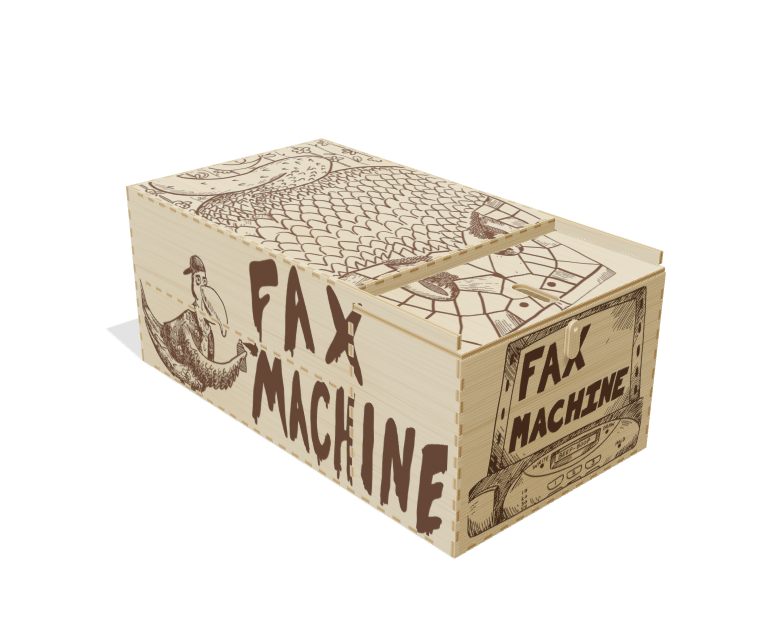
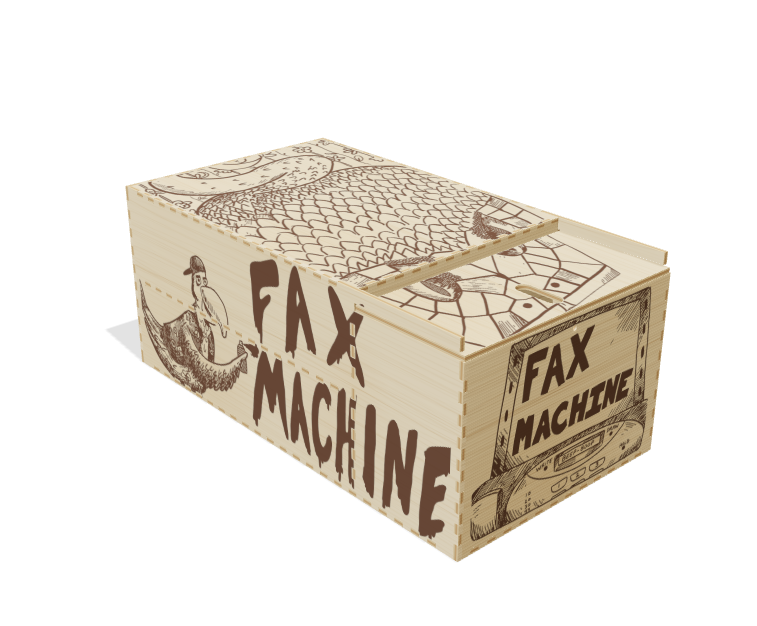
site: remove turn-button lock (lid held by friction); per-part explode

diff --git a/site/js/guide.js b/site/js/guide.js
@@ -1,6 +1,17 @@
 // Build-guide content that does not need three.js: step wording, extra steps,
 // how-it-works cards, hardware icons and small hand-drawn diagrams.
 
+// Parts the design has dropped (the turn-button lock). parts.json may still list
+// them until the geometry branch merges; leave them, and steps that only add them, out.
+export const REMOVED = /button/i;
+export function withoutRemoved(data) {
+  const gone = new Set(data.parts.filter(p => REMOVED.test(p.id + ' ' + (p.name || ''))).map(p => p.id));
+  if (!gone.size) return data;
+  const parts = data.parts.filter(p => !gone.has(p.id));
+  const steps = (data.steps || []).map(s => ({ ...s, parts: (s.parts || []).filter(id => !gone.has(id)) }))
+    .filter(s => !((data.steps.find(x => x.id === s.id) || {}).parts || []).length || s.parts.length);
+  return { ...data, parts, steps };
+}
 export const stepNumber = (s, i) => s.number ?? s.n ?? s.step ?? s.index ?? (i + 1);
 export const stepParts = s => s.parts || s.part_ids || s.added || [];
 export const cleanName = n => String(n || '').replace(/\s*\((lower|upper)( drawer)?\)/i, '');
@@ -18,7 +29,6 @@ export const STEP_TEXT = {
   box_left: { title: 'Left wall', note: 'Engraved face out, lid slot mouth to the front. Rear and left walls are one glue session.', tools: ['wood glue', 'mallet'] },
   box_front: { title: 'Front wall', note: 'Engraved face out, with the fax screen at the top. Front wall and bottom are the last glue session.', tools: ['wood glue', 'mallet'] },
   box_bottom: { title: 'Bottom panel', note: 'Its plain edge sits against the rear wall.', tools: ['wood glue', 'mallet'] },
-  box_button: { title: 'Turn button', note: 'Stack it as bolt, washer, button, wall, washer, nyloc nut, and tighten until the button turns with a firm push. Turned up, it blocks the lid; turned down, the lid slides out.', hardware: ['M3 × 14 button-head bolt', '2 × M3 washer', 'M3 nyloc nut'], tools: ['2 mm hex key', '5.5 mm wrench'], diagram: 'button' },
   box_lid: { title: 'Sliding lid', note: 'Grip slot toward the front, engraved side up. Slide it over the front wall into both slots until it stops at the divider. Never glue the lid or its slots.' },
   drawers_in: { title: 'Drawers in', note: 'COLORS goes in the lower opening, Lines in the upper one. Nothing stops a drawer from coming all the way out, so support it when you pull it far.' },
 };
@@ -96,15 +106,14 @@ export function buildSteps(data) {
 export const HOW_CARDS = [
   { id: 'paper', title: 'Paper slot', text: 'The front compartment holds a stack of quarter-letter sheets (4.25 × 5.5 in) standing on their long edge. Slide the lid back to take a page.', alt: 'Cutaway of the front compartment holding a stack of paper on edge' },
   { id: 'drawers', title: 'Two drawers with magnet catches', text: 'COLORS holds colored pencils and Lines holds pens. Each drawer pulls out the back. A pair of small magnets, one in the drawer and one in the divider, pulls it shut and keeps it closed when you carry the box.', alt: 'The upper drawer pulled out of the back of the box, with its magnet catch' },
-  { id: 'lid', title: 'Sliding lid and turn button', text: 'The lid rides in two slots cut into the side walls. A small wooden turn button bolted to the front wall locks it: turned up, the lid cannot slide out; turned down, it opens.', alt: 'The sliding lid pulled forward out of its slots, with the turn button on the front wall' },
+  { id: 'lid', title: 'Sliding lid', text: 'The lid rides in two slots cut into the side walls and slides out the front. It has no lock: friction in the slots holds it, so carry the box level and lift it from below, never by the lid or the top front edges.', alt: 'The sliding lid pulled forward out of its slots' },
   { id: 'joints', title: 'Finger joints', text: 'Every corner is a row of interlocking fingers cut to the exact plywood thickness. They line the box up square on their own, and a little wood glue makes them permanent.', alt: 'A corner of the box pulled apart to show the interlocking finger joints' },
 ];
 
-export const TOOLS = ['Calipers (to measure the plywood)', 'Wood glue (Titebond III)', 'CA glue for the magnets', 'Painter\'s tape or clamps', 'Small mallet or a block of wood', 'Tape measure', '2 mm hex key', '5.5 mm wrench or pliers', '220 grit sandpaper', 'Paraffin or beeswax', 'Paper cutter or scissors'];
+export const TOOLS = ['Calipers (to measure the plywood)', 'Wood glue (Titebond III)', 'CA glue for the magnets', 'Painter\'s tape or clamps', 'Small mallet or a block of wood', 'Tape measure', '220 grit sandpaper', 'Paraffin or beeswax', 'Paper cutter or scissors'];
 
 export const HARDWARE_FALLBACK = [
-  { name: 'Disc magnet, 6 × 2 mm', qty: 4, spares: 2 }, { name: 'M3 × 14 button-head bolt', qty: 1 },
-  { name: 'M3 nyloc nut', qty: 1 }, { name: 'M3 washer, 7 mm OD', qty: 2 }];
+  { name: 'Disc magnet, 6 × 2 mm', qty: 4, spares: 2 }];
 
 export const HW_ICONS = {
   magnet: '<svg viewBox="0 0 54 54" aria-hidden="true"><ellipse cx="27" cy="33" rx="17" ry="7" fill="#9aa0a8" stroke="#1d1b19" stroke-width="2.4"/><path d="M10 25v8M44 25v8" stroke="#1d1b19" stroke-width="2.4"/><ellipse cx="27" cy="25" rx="17" ry="7" fill="#d1d5da" stroke="#1d1b19" stroke-width="2.4"/></svg>',
@@ -126,18 +135,6 @@ export const SVG_PAPER = `<svg viewBox="0 0 900 640" xmlns="http://www.w3.org/20
 <path d="M660 175h165" /><circle cx="800" cy="145" r="15"/>
 ${K(610, 400, 40, '4 quarters,')}${K(610, 448, 40, '4.25 × 5.5 in')}</g></svg>`;
 
-// Turn button, locked (up) and open (down), seen from the front.
-function buttonPanel(x, up, label) {
-  const px = x + 150, py = 300;
-  const paddle = up ? `<rect x="${px - 22}" y="${py - 150}" width="44" height="172" rx="22" fill="#f2d9a8"/>` : `<rect x="${px - 22}" y="${py - 22}" width="44" height="172" rx="22" fill="#f2d9a8"/>`;
-  return `<rect x="${x}" y="150" width="300" height="300" fill="#fbf7ef"/>
-  <rect x="${x - 20}" y="${up ? 120 : 120}" width="340" height="26" fill="${up ? '#f2d9a8' : '#efe9dc'}" ${up ? '' : 'stroke-dasharray="10 8"'}/>
-  ${paddle}<circle cx="${px}" cy="${py}" r="9" fill="#fff"/>
-  ${up ? `<path d="M${px - 70} 104l40 0" stroke="#d8423a" stroke-width="6"/><path d="M${px - 90} 95l-18 20M${px - 108} 95l18 20" stroke="#d8423a" stroke-width="6"/>` : `<path d="M${x + 40} 104h-70m14-14l-14 14 14 14" stroke="#d8423a" stroke-width="6"/>`}
-  ${K(x + 60, 520, 44, label)}`;
-}
-export const SVG_BUTTON = `<svg viewBox="0 0 900 640" xmlns="http://www.w3.org/2000/svg" role="img" aria-label="Turn button up locks the lid; turned down the lid slides out"><g fill="none" stroke="#1d1b19" stroke-width="5" stroke-linecap="round" stroke-linejoin="round" style="filter:url(#wobble)">
-${buttonPanel(70, true, 'up: locked')}${buttonPanel(530, false, 'down: open')}</g></svg>`;
 
 // Laser starting points. Filled from published sources; see the citations rendered with the table.
 export { LASER } from './laser.js';

diff --git a/site/js/render3d.js b/site/js/render3d.js
@@ -31,7 +31,7 @@ function initHero(ctx, data) {
     onSelect(p, g) {
       if (!p) { card.hidden = true; return; }
       card.hidden = false; $('#pc-letter').textContent = p.letter || '?'; $('#pc-name').textContent = p.name;
-      $('#pc-hint').textContent = isDrawer(g) ? 'Tap again to slide the drawer' : (g === 'lid' || /button/i.test(p.id)) ? 'Tap again to slide the lid' : (qty[p.letter] > 1 ? `Part ${p.letter} · ${qty[p.letter]} in the kit` : `Part ${p.letter}`);
+      $('#pc-hint').textContent = isDrawer(g) ? 'Tap again to slide the drawer' : g === 'lid' ? 'Tap again to slide the lid (it is held by friction, with no lock)' : (qty[p.letter] > 1 ? `Part ${p.letter} · ${qty[p.letter]} in the kit` : `Part ${p.letter}`);
     },
   });
   const l = $('#hero-loading'); l && l.remove();
@@ -40,7 +40,7 @@ function initHero(ctx, data) {
   $('#explode').addEventListener('input', e => { model.target.explode = +e.target.value; viewer.kick(); refit(); });
   for (const b of document.querySelectorAll('.controls .chip')) b.addEventListener('click', () => {
     const a = b.dataset.act;
-    if (a === 'home') { model.target.explode = 0; $('#explode').value = 0; model.target.drawer_lower = model.target.drawer_upper = model.target.lid = model.target.button = 0; viewer.select(null); viewer.setView(viewer.home); }
+    if (a === 'home') { model.target.explode = 0; $('#explode').value = 0; model.target.drawer_lower = model.target.drawer_upper = model.target.lid = 0; viewer.select(null); viewer.setView(viewer.home); }
     else { if (a === 'lid') model.toggleLid(); else model.toggleDrawer(a); refit(); }
     syncChips(); viewer.kick();
   });
@@ -66,7 +66,7 @@ function initEngraving(ctx, data) {
     const face = man.faces[fid]; const p = data.parts.find(q => q.id === face.part_id); if (!p) return;
     const g = p.group; const fr = artFrame(p);
     const side = isDrawer(g) && Math.abs(fr.n.y) > 0.9;   // drawer sides only show when the drawer is out
-    Object.assign(model.target, { drawer_lower: side && g === 'drawer_lower' ? 1.35 : 0, drawer_upper: side && g === 'drawer_upper' ? 1.35 : 0, lid: 0, button: 0, explode: 0 });
+    Object.assign(model.target, { drawer_lower: side && g === 'drawer_lower' ? 1.35 : 0, drawer_upper: side && g === 'drawer_upper' ? 1.35 : 0, lid: 0, explode: 0 });
     const box = partBox(p).translate(model.groupOffset(g));
     const dir = Math.abs(fr.n.z) > 0.9 ? new THREE.Vector3(-0.45, -0.3, 1.5) : fr.n.clone().add(new THREE.Vector3(0, 0, 0.32)).add(fr.R.clone().multiplyScalar(-0.22));
     viewer.fitTo(box, { dir: dir.toArray(), margin: 1.05 });
@@ -116,17 +116,16 @@ function howPictures(data, R) {
     for (const m of (data.hardware && data.hardware.magnets) || []) R.addMagnet(s, m, null, m.group === 'drawer_upper' ? [120, 0, 0] : [0, 0, 0]);
     out.drawers = R.render(s, b, { dir: [0.95, -1, 0.7] }, 800, 600);
   }
-  if (lid && front) { // lid + button (turned down)
+  if (lid && front) { // lid pulled out
     const s = R._scene(), b = new THREE.Box3();
     for (const p of data.parts) {
       if (isDrawer(p.group)) continue;
       if (p === lid) R.addPart(s, p, 'hi', [-34, 0, 0], b);
-      else if (p === btn) R.addPart(s, btnDownOf(btn), 'hi', [0, 0, 0], b);
       else R.addPart(s, p, 'plain', [0, 0, 0], p === front || p === left ? b : null);
     }
     const lb = partBox(lid).translate(new THREE.Vector3(-34, 0, 0));
     R.addArrow(s, new THREE.Vector3(lb.min.x + 8, (lb.min.y + lb.max.y) / 2, lb.max.z + 16), [-1, 0, 0], 50, b);
-    out.lid = R.render(s, b, { dir: [-1, 0.5, 0.3] }, 800, 600);
+    out.lid = R.render(s, b, { dir: [-1, 0.5, 0.45] }, 800, 600);
   }
   if (front && left && bottom) { // exploded corner
     const s = R._scene(); const e = 14;

diff --git a/site/js/box3d.js b/site/js/box3d.js
@@ -221,19 +221,24 @@ export class BoxModel {
     parent.add(pivot);
     this.units[p.id] = { pivot, mesh, part: p, group: grp, explodeDir: this._explodeDir(p, grp) };
   }
+  // Exploded position: every part moves away from the middle of its body (box or
+  // drawer) along its own face normal, by an amount that grows with its distance
+  // from the middle, so neighbors that share an insert direction still separate.
   _explodeDir(p, grp) {
     const c = partCenter(p);
-    if (p.insert_direction) {
-      const d = new THREE.Vector3(...p.insert_direction).normalize().negate();
-      return d.multiplyScalar(isDrawer(grp) ? 28 : 85);
-    }
-    // fallback: dominant axis away from the body centre
     let ref = this.center.clone();
     if (isDrawer(grp)) { ref = new THREE.Vector3(); let n = 0; for (const q of this.parts) if (partGroup(q) === grp) { ref.add(partCenter(q)); n++; } ref.divideScalar(n || 1); }
-    const d = c.clone().sub(ref); const ax = ['x', 'y', 'z'].reduce((a, b) => Math.abs(d[b]) > Math.abs(d[a]) ? b : a, 'x');
-    const v = new THREE.Vector3(); v[ax] = Math.sign(d[ax]) || 1;
-    if (/top/i.test(p.id) && !isDrawer(grp)) v.set(0, 0, 1);
-    return v.multiplyScalar(isDrawer(grp) ? 28 : (v.z > 0 ? 110 : 85));
+    const d = c.clone().sub(ref);
+    const nrm = new THREE.Vector3(0, 0, 1).transformDirection(partMatrix(p));
+    const dn = d.dot(nrm);
+    let dir, dist;
+    if (Math.abs(dn) > 8) { dir = nrm.clone().multiplyScalar(Math.sign(dn)); dist = Math.abs(dn); }
+    else if (d.length() > 1) { dir = d.clone().normalize(); dist = d.length(); }
+    else { dir = new THREE.Vector3(0, 0, 1); dist = 0; }
+    const v = dir.multiplyScalar(isDrawer(grp) ? dist * 0.5 + 22 : dist * 1.15 + 40);
+    // the lid also pulls out of the front, so it clears the top panel
+    if (grp === 'lid' && p.insert_direction) v.add(new THREE.Vector3(...p.insert_direction).normalize().multiplyScalar(-70));
+    return v;
   }
   _addMagnets() {
     const mags = (this.data.hardware && this.data.hardware.magnets) || [];
@@ -272,8 +277,8 @@ export class BoxModel {
   layout(s) {
     const e = s.explode;
     for (const u of Object.values(this.units)) u.pivot.position.copy(u.explodeDir).multiplyScalar(e);
-    this.groups.drawer_lower.position.set(150 * s.drawer_lower + 250 * e, 0, 0);
-    this.groups.drawer_upper.position.set(150 * s.drawer_upper + 250 * e, 0, 40 * e);
+    this.groups.drawer_lower.position.set(150 * s.drawer_lower + 560 * e, 0, 0);
+    this.groups.drawer_upper.position.set(150 * s.drawer_upper + 560 * e, 0, 80 * e);
     this.groups.lid.position.set(-62 * s.lid, 0, 0);
     if (this.button) this.button.spin.setRotationFromAxisAngle(this.button.axis, Math.PI * s.button);
   }
@@ -286,15 +291,15 @@ export class BoxModel {
   }
   groupOffset(g, st = this.target) {
     const e = st.explode;
-    if (g === 'drawer_lower') return new THREE.Vector3(150 * st.drawer_lower + 250 * e, 0, 0);
-    if (g === 'drawer_upper') return new THREE.Vector3(150 * st.drawer_upper + 250 * e, 0, 40 * e);
+    if (g === 'drawer_lower') return new THREE.Vector3(150 * st.drawer_lower + 560 * e, 0, 0);
+    if (g === 'drawer_upper') return new THREE.Vector3(150 * st.drawer_upper + 560 * e, 0, 80 * e);
     if (g === 'lid') return new THREE.Vector3(-62 * st.lid, 0, 0);
     return new THREE.Vector3();
   }
   toggleDrawer(g) { this.target[g] = this.target[g] > 0.5 ? 0 : 1; }
   toggleLid() {
     const open = this.target.lid < 0.5;
-    this.target.lid = open ? 1 : 0; this.target.button = open ? 1 : 0;
+    this.target.lid = open ? 1 : 0;
   }
 }
 

diff --git a/site/index.html b/site/index.html
@@ -27,24 +27,24 @@
 <link rel="preconnect" href="https://fonts.googleapis.com">
 <link rel="preconnect" href="https://fonts.gstatic.com" crossorigin>
 <link href="https://fonts.googleapis.com/css2?family=Rubik:wght@500;700;800;900&family=Kalam:wght@400;700&family=Inter:wght@400;500;600;700&display=swap" rel="stylesheet">
-<link rel="stylesheet" href="css/site.css?v=f17c44d26a">
+<link rel="stylesheet" href="css/site.css?v=d311608b72">
 <script type="importmap">
 {
  "imports": {
   "three": "./vendor/three/build/three.module.min.js",
   "three/addons/": "./vendor/three/examples/jsm/",
-  "./js/art2d.js": "./js/art2d.js?v=f17c44d26a",
-  "./js/box3d.js": "./js/box3d.js?v=f17c44d26a",
-  "./js/guide.js": "./js/guide.js?v=f17c44d26a",
-  "./js/laser.js": "./js/laser.js?v=f17c44d26a",
-  "./js/page.js": "./js/page.js?v=f17c44d26a",
-  "./js/render3d.js": "./js/render3d.js?v=f17c44d26a",
-  "./js/rules.js": "./js/rules.js?v=f17c44d26a",
-  "./js/version.js": "./js/version.js?v=f17c44d26a"
+  "./js/art2d.js": "./js/art2d.js?v=d311608b72",
+  "./js/box3d.js": "./js/box3d.js?v=d311608b72",
+  "./js/guide.js": "./js/guide.js?v=d311608b72",
+  "./js/laser.js": "./js/laser.js?v=d311608b72",
+  "./js/page.js": "./js/page.js?v=d311608b72",
+  "./js/render3d.js": "./js/render3d.js?v=d311608b72",
+  "./js/rules.js": "./js/rules.js?v=d311608b72",
+  "./js/version.js": "./js/version.js?v=d311608b72"
  }
 }
 </script>
-<script type="module" src="js/page.js?v=f17c44d26a"></script>
+<script type="module" src="js/page.js?v=d311608b72"></script>
 </head>
 <body>
 <svg width="0" height="0" style="position:absolute" aria-hidden="true">
@@ -88,7 +88,7 @@
     <ul class="facts">
       <li><b>12 × 6.5 × 5 in</b><span>305 × 165 × 127 mm</span></li>
       <li><b id="fact-parts">22 parts</b><span>1/8 in birch plywood</span></li>
-      <li><b>Finger joints</b><span>glue + one bolt for the lock</span></li>
+      <li><b>Finger joints</b><span>held with wood glue</span></li>
     </ul>
   </div>
   <div class="stage" id="hero-stage">

diff --git a/site/js/page.js b/site/js/page.js
@@ -4,7 +4,7 @@
 // upgrades the page; if it fails, nothing here is lost.
 import { V } from './version.js';
 import { RULES } from './rules.js';
-import { buildSteps, stepParts, cleanName, HOW_CARDS, TOOLS, HARDWARE_FALLBACK, hwIcon, SVG_PAPER, SVG_BUTTON, LASER } from './guide.js';
+import { buildSteps, stepParts, cleanName, HOW_CARDS, TOOLS, HARDWARE_FALLBACK, hwIcon, SVG_PAPER, LASER, withoutRemoved } from './guide.js';
 import { inkCanvas, birchCanvas, artUrl } from './art2d.js';
 
 export const $ = (s, el = document) => el.querySelector(s);
@@ -112,7 +112,7 @@ function renderSteps(ctx) {
     if (s.focus === 'paper') pic = h('div', { class: 'step-pic', html: SVG_PAPER });
     else pic = h('div', { class: 'step-pic' }, picSlot(ctx, 'step-' + s.id, `Step ${num}: ${s.title || ''}`, 'pic'));
     if (s.focus === 'square') pic.append(h('span', { class: 'glue-flag' }, 'clamp'));
-    const extra = s.diagram === 'button' ? h('div', { class: 'step-diagram', html: SVG_BUTTON }) : null;
+    const extra = null;
     const chips = h('div', { class: 'step-parts' },
       [...letters.values()].slice(0, 8).map(p => h('span', { class: 'pchip' }, h('span', { class: 'letter' }, p.letter), cleanName(p.name))),
       s.phase === 'drawer' ? h('span', { class: 'pchip tool' }, '× 2 drawers') : null,
@@ -411,7 +411,7 @@ async function boot() {
   const [text, art, renders] = await Promise.all([getText('data/parts.json'), getJSON('data/art-manifest.json'), getJSON('img/render/index.json')]);
   ctx.renders = renders;
   if (!text) { $('#hero-loading').textContent = 'The parts list could not load.'; return; }
-  ctx.data = JSON.parse(text); ctx.dataHash = hash(text); ctx.art = art;
+  ctx.data = withoutRemoved(JSON.parse(text)); ctx.dataHash = hash(text); ctx.art = art;
   artState.manifest = art;
   initParams(ctx.data);
   renderHow(ctx); renderInventory(ctx); renderSteps(ctx); initEngraving(ctx);

diff --git a/site/js/version.js b/site/js/version.js
@@ -1,2 +1,2 @@
 // Rewritten by scripts/build_site.py with a content hash, so a deploy never pairs new HTML with stale files.
-export const V = 'f17c44d26a';
+export const V = 'd311608b72';

diff --git a/scripts/site_prerender.py b/scripts/site_prerender.py
@@ -49,6 +49,10 @@ class Handler(http.server.SimpleHTTPRequestHandler):
             idx = json.loads(body)
             OUT.mkdir(parents=True, exist_ok=True)
             (OUT / "index.json").write_text(json.dumps(idx, indent=1) + "\n")
+            keep = {Path(v).name for v in idx.get("files", {}).values()}
+            for f in OUT.glob("*.png"):      # drop pictures of parts or steps that no longer exist
+                if f.name not in keep:
+                    f.unlink()
             print("wrote index with", len(idx.get("files", {})), "pictures")
         else:
             return self.send_error(404)
